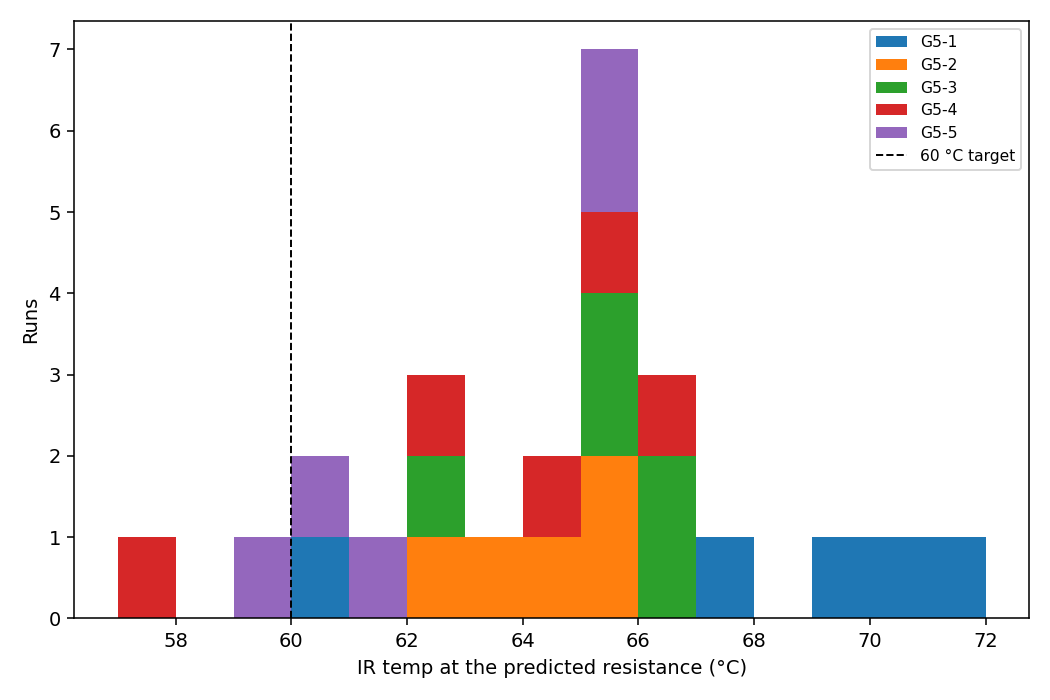
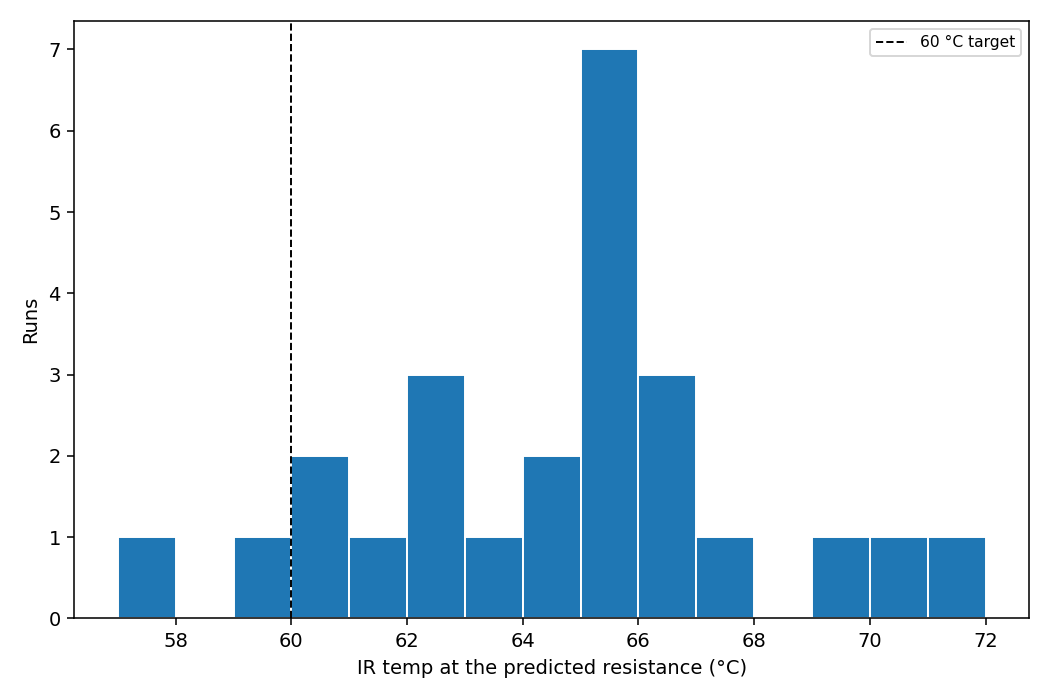
IR distribution: single colour

Changed region(s): [[0.2133, 0.06, 0.6705, 0.9], [0.8229, 0.03, 0.9752, 0.24], [0.0914, 0.75, 0.1829, 0.9]]

diff --git a/IR+T_Couple+reist 16 Oct/output/prediction_plots.py b/IR+T_Couple+reist 16 Oct/output/prediction_plots.py
@@ -54,7 +54,7 @@ for col in ("actual_R60_ohm", "actual_R70_ohm"):
 # distribution of the IR temp reached when the resistance PID held the predicted R60
 fig, ax = plt.subplots(figsize=(7.5, 5))
 bins = np.arange(np.floor(d.ir_at_predicted_R_C.min()), np.ceil(d.ir_at_predicted_R_C.max()) + 1, 1)
-ax.hist([d[d["sample"] == n].ir_at_predicted_R_C for n in samples], bins=bins, stacked=True, label=samples, color=[f"C{i}" for i in range(len(samples))])
+ax.hist(d.ir_at_predicted_R_C, bins=bins, color="C0", edgecolor="white")
 ax.axvline(60, c="k", ls="--", lw=1, label="60 °C target")
 ax.set_xlabel("IR temp at the predicted resistance (°C)"); ax.set_ylabel("Runs"); ax.legend(fontsize=8)
 fig.tight_layout(); fig.savefig("prediction_ir_at_predicted_R_distribution.png", dpi=140)
